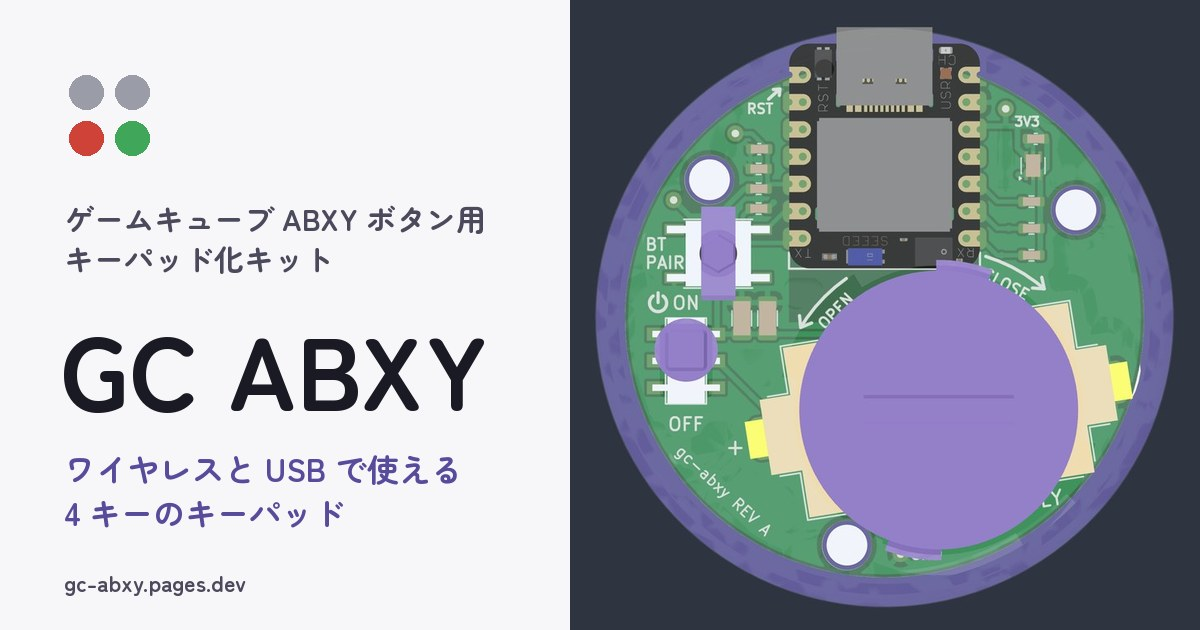
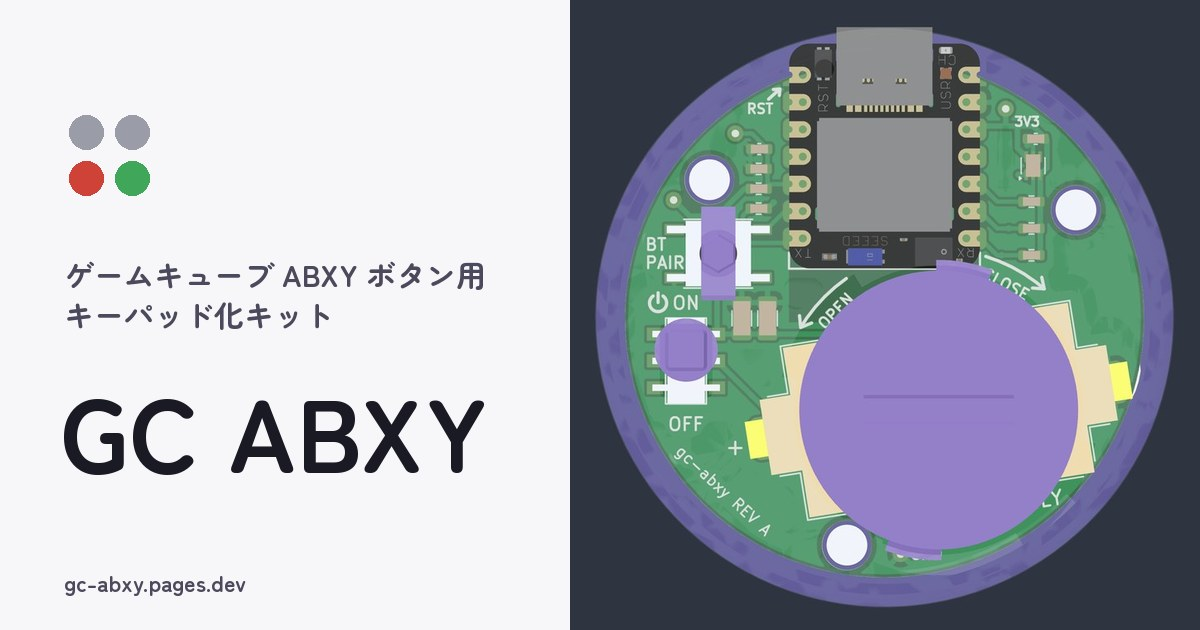
電池ホルダーの向きの指示を消し、共有用の画像を簡単にする

Changed region(s): [[0.0308, 0.4825, 0.4008, 0.8444], [0.0308, 0.1206, 0.4008, 0.3619], [0.0617, 0.3921, 0.4008, 0.4524]]

diff --git a/site/solder/index.html b/site/solder/index.html
@@ -12,7 +12,7 @@
 <meta property="og:title" content="GC ABXY のはんだ付け（付ける部品は 4 つ）">
 <meta property="og:description" content="GC ABXY の基板に XIAO・電池ホルダー・スライドスイッチ・タクトスイッチをはんだ付けする手順と、テスターでのショートの確かめ方。">
 <meta property="og:url" content="https://gc-abxy.pages.dev/solder/">
-<meta property="og:image" content="https://gc-abxy.pages.dev/assets/img/og.jpg?v=36d582b11e">
+<meta property="og:image" content="https://gc-abxy.pages.dev/assets/img/og.jpg?v=6f69403927">
 <meta property="og:image:width" content="1200">
 <meta property="og:image:height" content="630">
 <meta name="twitter:card" content="summary_large_image">
@@ -21,7 +21,7 @@
 <link rel="icon" href="../assets/img/icon.svg?v=a9eed07451" type="image/svg+xml">
 <link rel="preload" as="font" type="font/woff2" href="../assets/fonts/zen-maru-gothic-700.woff2?v=e20b89aae2" crossorigin>
 <style>@font-face{font-family:"Zen Maru Gothic";font-weight:700;font-display:optional;src:url(../assets/fonts/zen-maru-gothic-700.woff2?v=e20b89aae2) format("woff2")}:root{--ground:#f7f7fa;--surface:#ffffff;--surface-2:#f0f0f5;--ink:#1a1a24;--ink-2:#4a4a5c;--ink-3:#66667a;--line:#e2e2ec;--line-strong:#c9c9d8;--accent:#574c9b;--accent-soft:#ece9f7;--accent-ink:#ffffff;--a:#6f717c;--b:#878994;--xy:#9a9ca8;--ok:#3fa65a;--led-red:#e23b2e;--led-blue:#2f6fe0;--led-yellow:#e0a41f;--warn-bg:#fdf1e4;--warn-line:#e0b071;--warn-ink:#8a5410;--stop-bg:#fdecea;--stop-line:#e39b93;--stop-ink:#9c2b20;--display:"Zen Maru Gothic","Hiragino Maru Gothic ProN","Yu Gothic",sans-serif;--body:"Hiragino Sans","Hiragino Kaku Gothic ProN","Yu Gothic UI","Yu Gothic","Meiryo",system-ui,sans-serif;--mono:ui-monospace,SFMono-Regular,Menlo,Consolas,monospace}@media (prefers-color-scheme:dark){:root:not([data-theme="light"]){--ground:#131318;--surface:#1c1c24;--surface-2:#24242e;--ink:#e9e9f2;--ink-2:#b6b6c8;--ink-3:#9a9ab0;--line:#2d2d3a;--line-strong:#3e3e50;--accent:#a49af0;--accent-soft:#272238;--accent-ink:#17131f;--a:#7d7f8a;--b:#5f616c;--xy:#a8aab6;--ok:#57c072;--led-red:#ff5647;--led-blue:#5b91f5;--led-yellow:#f0bb44;--warn-bg:#2e2315;--warn-line:#6d5326;--warn-ink:#f1cf9b;--stop-bg:#331c19;--stop-line:#7a3a32;--stop-ink:#f5b0a6}}:root[data-theme="dark"]{--ground:#131318;--surface:#1c1c24;--surface-2:#24242e;--ink:#e9e9f2;--ink-2:#b6b6c8;--ink-3:#9a9ab0;--line:#2d2d3a;--line-strong:#3e3e50;--accent:#a49af0;--accent-soft:#272238;--accent-ink:#17131f;--a:#7d7f8a;--b:#5f616c;--xy:#a8aab6;--ok:#57c072;--led-red:#ff5647;--led-blue:#5b91f5;--led-yellow:#f0bb44;--warn-bg:#2e2315;--warn-line:#6d5326;--warn-ink:#f1cf9b;--stop-bg:#331c19;--stop-line:#7a3a32;--stop-ink:#f5b0a6}*{box-sizing:border-box}body{background:var(--ground);color:var(--ink);font-family:var(--body);font-size:15.5px;line-height:1.9;margin:0;padding-inline:20px;padding-block:0;-webkit-font-smoothing:antialiased}.wrap{max-width:740px;margin-inline:auto;padding-block:40px 80px}h1,h2,h3{font-family:var(--display);text-wrap:balance;line-height:1.4;margin:0}:focus-visible{outline:2px solid var(--accent);outline-offset:3px;border-radius:4px}.head{display:flex;gap:24px;align-items:center;flex-wrap:wrap}.head-txt{flex:1 1 240px;min-width:0}.eyebrow{font-family:var(--mono);font-size:11px;letter-spacing:.16em;text-transform:uppercase;color:var(--ink-3);margin:0 0 4px}h1{font-size:clamp(29px,7vw,40px);font-weight:700}.lede{color:var(--ink-2);margin:9px 0 0;font-size:15px}.tabs{position:sticky;top:env(safe-area-inset-top,0px);z-index:9;display:flex;gap:6px;margin:30px -20px 0;padding:10px 20px;background:color-mix(in srgb,var(--ground) 92%,transparent);backdrop-filter:blur(8px);border-bottom:1px solid var(--line);overflow-x:auto}.tabs button{flex:0 0 auto;font-family:var(--display);font-weight:700;font-size:14.5px;border:1px solid var(--line);background:var(--surface);color:var(--ink-2);padding:9px 17px;border-radius:99px;cursor:pointer;white-space:nowrap;line-height:1.4}.tabs button[aria-selected="true"]{background:var(--accent);border-color:var(--accent);color:var(--accent-ink)}.tabs .num{font-family:var(--mono);font-size:11px;opacity:.75;margin-right:6px}.part-intro{margin:34px 0 0;padding:18px 20px;background:var(--accent-soft);border-radius:13px;color:var(--ink);font-size:15px}.part-intro b{font-weight:700}section{margin-top:46px}h2{font-size:21px;font-weight:700;display:flex;align-items:baseline;gap:11px}h2 .n{font-family:var(--mono);font-size:12px;font-weight:500;color:var(--accent);background:var(--accent-soft);padding:3px 8px;border-radius:6px;letter-spacing:.06em;flex:0 0 auto}.kit{margin-top:18px}.kit .q{font-size:14px;color:var(--ink-2);margin:0 0 9px}.kit .opts{display:flex;gap:8px;flex-wrap:wrap}.kit button{flex:1 1 190px;text-align:left;cursor:pointer;font-family:var(--body);background:var(--surface);border:1px solid var(--line);border-radius:12px;padding:13px 16px;color:var(--ink)}.kit button[aria-pressed="true"]{border-color:var(--accent);box-shadow:inset 0 0 0 1px var(--accent);background:var(--accent-soft)}.kit b{font-family:var(--display);font-weight:700;font-size:15px;display:block;line-height:1.5}.kit small{display:block;font-size:12.5px;color:var(--ink-3);line-height:1.65;margin-top:1px}.kit-badge{margin:26px 0 0;font-size:12.5px;color:var(--ink-3);border:1px dashed var(--line-strong);border-radius:9px;padding:7px 13px}.kit-badge b{color:var(--ink-2)}.sub{color:var(--ink-2);margin:13px 0 0;font-size:15px}h3{font-size:15.5px;font-weight:700;margin:28px 0 8px}ol.steps{margin:22px 0 0;padding-left:0;list-style:none;counter-reset:s}ol.steps>li{counter-increment:s;position:relative;padding-left:46px;margin-bottom:22px;font-size:15px}ol.steps>li::before{content:counter(s);position:absolute;left:0;top:-1px;width:31px;height:31px;border-radius:50%;background:var(--accent);color:var(--accent-ink);font-family:var(--mono);font-size:14px;font-weight:500;display:grid;place-items:center}ol.steps .what{font-family:var(--display);font-weight:700;display:block;line-height:1.5}ol.steps .how{color:var(--ink-2);font-size:14px;display:block;margin-top:2px}.check{margin:20px 0 0;padding:0;list-style:none;display:grid;gap:2px}.check li{margin:0}.check label{display:flex;gap:12px;align-items:flex-start;flex-wrap:wrap;padding:11px 14px;border-radius:10px;background:var(--surface);border:1px solid var(--line);cursor:pointer;font-size:14.5px}.check input{margin:5px 0 0;width:17px;height:17px;flex:0 0 auto;accent-color:var(--accent)}.check input:checked ~ .lbl{color:var(--ink-3);text-decoration:line-through}.check .lbl small{display:block;font-size:12.5px;color:var(--ink-3);text-decoration:none;line-height:1.6}.check input:checked ~ .lbl small{text-decoration:line-through}.rail{margin-top:24px}.stop{display:grid;grid-template-columns:58px 1fr;gap:0 16px;position:relative}.stop::before{content:"";position:absolute;left:57px;top:0;bottom:0;width:2px;background:var(--line)}.stop:first-child::before{top:15px}.stop:last-child::before{bottom:auto;height:15px}.t{grid-column:1;text-align:right;font-family:var(--mono);font-size:14px;font-weight:500;color:var(--ink);padding-top:7px;white-space:nowrap}.t small{display:block;font-family:var(--body);font-size:12px;font-weight:700;color:var(--warn-ink);letter-spacing:0;margin-top:2px}.body-col{grid-column:2;padding:0 0 24px 16px;position:relative}.body-col::before{content:"";position:absolute;left:-6px;top:14px;width:12px;height:12px;border-radius:50%;background:var(--accent);border:2px solid var(--accent)}.stop .card{background:var(--surface);border:1px solid var(--line);border-radius:12px;padding:15px 17px}.stop h3{margin:0 0 4px;font-size:15.5px}.stop p{margin:0;color:var(--ink-2);font-size:14px}.led-chip{display:inline-flex;align-items:center;gap:7px;margin-top:10px;font-size:13px;font-family:var(--mono);color:var(--ink-2);background:var(--surface-2);border-radius:99px;padding:3px 12px 3px 6px}.swatch{width:13px;height:13px;border-radius:50%;flex:0 0 auto}.rainbow{background:conic-gradient(#e23b2e,#e0a41f,#3fa65a,#31c0c0,#2f6fe0,#b34fd0,#e23b2e)}.release{margin-top:11px;padding-top:11px;border-top:1px dashed var(--line);font-size:14px;color:var(--ink)}.release .tag{font-family:var(--mono);font-size:11px;color:var(--ink-3);letter-spacing:.05em;text-transform:uppercase;display:block;margin-bottom:1px}.tablewrap{overflow-x:auto;margin-top:20px;border:1px solid var(--line);border-radius:12px;background:var(--surface)}table{border-collapse:collapse;width:100%;font-size:14.5px}th,td{text-align:left;padding:12px 16px;border-bottom:1px solid var(--line);vertical-align:top}tbody tr:last-child td{border-bottom:0}th{font-family:var(--mono);font-size:12px;letter-spacing:.09em;text-transform:uppercase;color:var(--ink-3);font-weight:500;background:var(--surface-2)}td.sig{white-space:normal}td.sig span{display:inline-flex;align-items:center;gap:8px}.note{margin-top:22px;background:var(--surface);border:1px solid var(--line);border-left:3px solid var(--accent);border-radius:0 11px 11px 0;padding:15px 18px}.note p{margin:0;font-size:14.5px;color:var(--ink-2)}.note b{color:var(--ink)}.note h3{margin:0 0 5px;font-size:15px}.warn,.stopbox{margin-top:22px;border-radius:12px;padding:16px 19px}.warn{background:var(--warn-bg);border:1px solid var(--warn-line)}.warn h3{margin:0 0 5px;color:var(--warn-ink);font-size:15px}.warn p{margin:0;font-size:14.5px;color:var(--warn-ink)}.stopbox{background:var(--stop-bg);border:1px solid var(--stop-line)}.stopbox h3{margin:0 0 5px;color:var(--stop-ink);font-size:15px}.stopbox p{margin:0;font-size:14.5px;color:var(--stop-ink)}.note p+p,.warn p+p,.stopbox p+p{margin-top:8px}.door{display:flex;gap:22px;align-items:center;flex-wrap:wrap;margin-top:22px;background:var(--surface);border:1px solid var(--line);border-radius:13px;padding:20px}.door .cap{flex:1 1 210px;min-width:0;font-size:14.5px;color:var(--ink-2);margin:0}kbd{font-family:var(--mono);font-size:13px;background:var(--surface-2);border:1px solid var(--line-strong);border-bottom-width:2px;border-radius:5px;padding:1px 6px}.legal{margin-top:54px;padding:20px 22px;background:var(--surface-2);border:1px solid var(--line);border-radius:13px}.legal h3{margin:0 0 10px;font-size:14.5px}.legal p{margin:0 0 9px;font-size:13px;line-height:1.85;color:var(--ink-2)}.legal p:last-child{margin-bottom:0}.legal b{color:var(--ink)}.legal a{color:var(--accent);word-break:break-all}footer{margin-top:60px;padding-top:22px;border-top:1px solid var(--line);font-size:12.5px;color:var(--ink-3);line-height:1.9}footer code{font-family:var(--mono);font-size:11.5px}@media (prefers-reduced-motion:no-preference){.blinker{animation:bl 1.1s steps(1,end) infinite}@keyframes bl{0%,45%{opacity:1}46%,100%{opacity:.18}}.rainbow{animation:hue6 3.5s steps(1,end) infinite}@keyframes hue6{0%{background:#e23b2e}2.4%{background:#e0a41f}4.8%{background:#3fa65a}7.2%{background:#31c0c0}9.6%{background:#2f6fe0}12%{background:#b34fd0}14.4%{background:#e23b2e}16.8%{background:#e0a41f}19.2%{background:#3fa65a}21.6%{background:#31c0c0}24%{background:#2f6fe0}26.4%{background:#b34fd0}28.8%{background:conic-gradient(#e23b2e,#e0a41f,#3fa65a,#31c0c0,#2f6fe0,#b34fd0,#e23b2e)}100%{background:conic-gradient(#e23b2e,#e0a41f,#3fa65a,#31c0c0,#2f6fe0,#b34fd0,#e23b2e)}}}.kit-switch{margin-left:.6em;appearance:none;cursor:pointer;border:1px solid var(--line-strong);background:var(--surface-2);color:var(--ink-2);border-radius:999px;padding:.12em .8em;font-size:.82em;font-weight:600;font-family:inherit;line-height:1.6;vertical-align:baseline}.kit-switch:hover{border-color:var(--accent);color:var(--accent)}.kit-switch:focus-visible{outline:2px solid var(--accent);outline-offset:2px}.tbd{background:color-mix(in srgb,var(--accent) 14%,transparent);border-bottom:1px dashed var(--accent);padding:0 .25em;border-radius:3px}.check label{position:relative}.buy{display:inline-flex;align-items:center;justify-content:center;gap:5px;font-size:12.5px;font-weight:600;text-decoration:none;color:var(--accent);border:1px solid var(--line-strong);border-radius:999px;padding:.3em .75em;background:var(--surface-2)}.buy:hover{border-color:var(--accent)}.ad{font-family:var(--mono,monospace);font-size:10.5px;font-weight:700;letter-spacing:.06em;color:var(--ink-3);border:1px solid var(--line-strong);border-radius:3px;padding:0 .3em;line-height:1.5}.ad-note{margin:10px 0 0;font-size:12.5px;color:var(--ink-3)}.ad-note a{color:var(--ink-3)}section[id]{scroll-margin-top:calc(env(safe-area-inset-top,0px) + var(--stick,58px) + 18px)}.buys{margin-left:auto;align-self:center;flex:0 0 auto;display:grid;grid-template-columns:76px 54px 48px;gap:5px;align-items:center}.buys .buy[data-shop="seeed"]{grid-column:1}.buys .buy[data-shop="marutsu"]{grid-column:2}.buys .buy[data-shop="akizuki"]{grid-column:3}.buys .buy{padding:.3em .2em}ul.plain{margin:14px 0 0;padding-left:1.25em;font-size:15px;color:var(--ink-2)}ul.plain li{margin:7px 0}ul.plain b{color:var(--ink)}.foot{margin-top:64px;padding-top:26px;border-top:1px solid var(--line-strong);font-size:12.5px;line-height:1.9;color:var(--ink-3)}.foot .foot-sec{margin-top:26px}.foot .foot-sec:first-child{margin-top:0}.foot h3{font-family:var(--body);font-size:13px;font-weight:700;color:var(--ink-2);margin:0 0 6px}.foot p{margin:0 0 7px;font-size:12.5px;line-height:1.9;color:var(--ink-3)}.foot p:last-child{margin-bottom:0}.foot b,.foot strong{color:var(--ink-2);font-weight:600}.foot a{color:var(--ink-2);word-break:break-all}.foot code{font-family:var(--mono);font-size:11.5px}.foot-spec{margin-top:30px;padding-top:18px;border-top:1px solid var(--line)}.legal-body{margin-top:14px}.legal-body p{margin:0 0 10px;font-size:13.5px;line-height:1.95;color:var(--ink-2)}.legal-body p:last-child{margin-bottom:0}.legal-body b{color:var(--ink)}.legal-body code{font-family:var(--mono);font-size:12px}.check .lbl{flex:1 1 180px;min-width:0}@media (max-width:480px){.buys{flex-basis:100%;justify-content:end}}.fwver{display:flex;flex-wrap:wrap;gap:12px;align-items:center;margin:14px 0}.fwver button{font:inherit;font-weight:700;cursor:pointer;padding:9px 18px;border-radius:8px;border:0;background:var(--accent);color:var(--accent-ink)}.fwver button:disabled{opacity:.55;cursor:progress}.fwver output{white-space:pre-line;font-family:ui-monospace,SFMono-Regular,Menlo,monospace;font-size:13.5px}@media (max-width:420px){.tabs .num{display:none}.tabs button{padding:9px 13px}}.t small{white-space:normal;line-height:1.4}.fwver button.sec{background:transparent;color:var(--accent);box-shadow:inset 0 0 0 1px var(--accent)}.fwver button:disabled{cursor:default}.diag th[scope="row"]{width:34%;white-space:nowrap;letter-spacing:.04em}.diag td{overflow-wrap:anywhere}.diag-keys th,.diag-keys td{padding:10px 8px;font-size:13.5px}.diag-keys th{letter-spacing:.02em;text-transform:none;white-space:normal;line-height:1.4}.diag-keys td{font-family:var(--mono);font-variant-numeric:tabular-nums;white-space:nowrap}.diag-keys td:first-child{font-family:var(--display);font-weight:700}.judge{display:inline-block;font-family:var(--body);font-size:12.5px;font-weight:700;line-height:1.5;padding:1px 9px;border-radius:99px;border:1px solid var(--line-strong);color:var(--ink-3);white-space:nowrap}.judge.ok{color:var(--ink);border-color:var(--ok);background:color-mix(in srgb,var(--ok) 16%,transparent)}.judge.ng{color:var(--warn-ink);border-color:var(--warn-line);background:var(--warn-bg)}.diag-keys td.ng{color:var(--warn-ink);font-weight:700}.diag textarea{display:block;width:100%;margin-top:12px;padding:12px 14px;border:1px solid var(--line);border-radius:11px;background:var(--surface);color:var(--ink);font-family:var(--mono);font-size:12.5px;line-height:1.7;resize:vertical}.tabs .mini{flex:0 0 auto;display:flex;align-items:center;width:0;margin-right:-6px;opacity:0;overflow:hidden;pointer-events:none;transform:scale(.6);transform-origin:left center}.tabs .mini svg{display:block;width:42px;height:30px}.tabs.stuck .mini{width:42px;margin-right:2px;opacity:1;transform:none;pointer-events:auto}.head>div[aria-hidden]{transition:opacity .2s}.head.gone>div[aria-hidden]{opacity:0}@media (prefers-reduced-motion:no-preference){.tabs .mini{transition:width .28s ease,margin .28s ease,opacity .2s ease,transform .28s ease}}.stage{position:sticky;top:calc(env(safe-area-inset-top,0px) + var(--stick,58px));z-index:6;background:var(--ground);padding:10px 0 8px;margin-top:18px}.stage::after{content:"";position:absolute;left:0;right:0;bottom:-14px;height:14px;pointer-events:none;background:linear-gradient(var(--ground),transparent)}.stage-in{position:relative;border:1px solid var(--line);border-radius:13px;overflow:hidden;background:var(--surface)}.stage.anim .stage-in{aspect-ratio:420/132}.stage.photo .stage-in{height:min(36vh,360px)}.stage .frame{position:absolute;inset:0;opacity:0;transition:opacity .35s ease}.stage .frame.on{opacity:1}.stage .frame .render-img{position:absolute;inset:0;aspect-ratio:auto!important;background-size:contain;background-position:center;background-repeat:no-repeat}.stage .render-img svg .mk{transition:opacity .3s}.stage .render-img svg.focus .mk:not(.on){opacity:.22}.stage .render-img.board-top svg.focus .mk:not(.on){opacity:0}.stage-n{position:absolute;left:10px;top:10px;min-width:28px;height:28px;padding:0 8px;border-radius:99px;background:var(--surface);color:var(--accent);border:1.5px solid var(--accent);font-family:var(--display);font-size:13px;font-weight:700;display:grid;place-items:center;z-index:2}.stage-caps p{display:none;margin:7px 2px 0;font-size:12.5px;line-height:1.7;color:var(--ink-2)}.stage-caps p.on{display:block}.stage-caps .leg{display:inline-flex;align-items:flex-start;gap:5px;margin:2px 10px 0 0;white-space:normal}.stage-caps .leg i{font-style:normal;font-family:var(--mono);font-size:11px;font-weight:700;color:#fff;background:#574c9b;width:18px;height:18px;border-radius:50%;display:inline-grid;place-items:center}.scrolly.live ol.steps>li:last-child{margin-bottom:0}.scrolly.live ol.steps>li::before{transition:opacity .3s}.scrolly.live ol.steps>li:not(.now)::before{opacity:.35}.scrolly.live ol.steps>li:not(.now) .what{color:var(--ink-2)}.scrolly.live ol.steps>li:not(.now) .how{color:var(--ink-3)}.asmv{display:block;width:100%;height:100%}.asmv .lab{font-family:var(--body);font-size:12px;fill:var(--ink-2);transition:opacity .3s}.asmv .el{transition:transform .7s cubic-bezier(.3,.7,.3,1),opacity .5s ease}.asmv .asm{transform-box:view-box;transform-origin:200px 155px;transition:transform .8s cubic-bezier(.5,0,.3,1)}.asmv.snap .el,.asmv.snap .asm{transition:none!important}.asmv .hl{animation:hl 1.1s ease-in-out 2}@keyframes hl{50%{filter:drop-shadow(0 0 3px var(--accent)) drop-shadow(0 0 6px var(--accent))}}@media (prefers-reduced-motion:reduce){.asmv .el,.asmv .asm,.stage .frame{transition-duration:.01s}.asmv .hl{animation:none}}.stop.danger .card{border-color:var(--warn-line);background:var(--warn-bg)}.stop.danger .card p{color:var(--warn-ink)}.stop.danger .body-col::before{background:var(--warn-line);border-color:var(--warn-line)}.stop h3{text-wrap:pretty}figure.render{margin:22px auto 0;max-width:440px;border:1px solid var(--line);border-radius:14px;overflow:hidden;background:var(--surface)}.render-img{position:relative;aspect-ratio:1/1;background:#2b3140 center/cover no-repeat}.render-img.back-on{background-image:url(../assets/img/back-on.webp?v=ece4f9e16b)}.render-img.back{background-image:url(../assets/img/back.webp?v=bab38c7f83)}.render-img svg{position:absolute;inset:0;width:100%;height:100%}figure.render figcaption{padding:11px 15px 13px;font-size:13px;line-height:1.8;color:var(--ink-2)}figure.render figcaption b{color:var(--ink)}figure.render .leg{display:inline-flex;align-items:flex-start;gap:5px;margin:5px 12px 0 0;white-space:normal}figure.render .leg i{font-style:normal;font-family:var(--mono);font-size:11px;font-weight:700;color:#fff;background:#574c9b;width:18px;height:18px;border-radius:50%;display:inline-grid;place-items:center}a{color:var(--accent);text-underline-offset:2px}.render-img.extra{background-color:#f4f4f3;aspect-ratio:1600/360;background-image:url(../assets/img/extra.webp?v=b2c49f3cec)}.render-img.studio-connect{background-color:#171a1f;aspect-ratio:800/320;background-image:url(../assets/img/studio-connect.webp?v=d271368730)}.render-img.studio-port{background-color:#1c1c1c;aspect-ratio:800/800;background-image:url(../assets/img/studio-port.webp?v=abbd12f083)}.render-img.studio-edit{background-color:#171a1f;aspect-ratio:1200/1000;background-image:url(../assets/img/studio-edit.webp?v=67e81f59cc)}.render.tiny{max-width:260px}.render-img.board-top{background-color:#f4f4f3;aspect-ratio:1/1;background-image:url(../assets/img/board-top.webp?v=5067ec044a)}.render-img.board-front{background-color:#f4f4f3;aspect-ratio:1/1;background-image:url(../assets/img/board-front.svg?v=e38a5a4685)}.render-img.board-top.sw-on{background-image:url(../assets/img/board-top-on.webp?v=785a360b9d)}.render-img.parts{background-color:#f4f4f3;aspect-ratio:1600/900;background-image:url(../assets/img/parts.webp?v=7a05b30ccb)}figure.render.wide{max-width:640px}td .num{display:inline-grid;place-items:center;width:18px;height:18px;margin-right:7px;border-radius:50%;background:#574c9b;color:#fff;font-family:var(--mono);font-size:11px;font-weight:700;vertical-align:1px}ol.steps .what a{color:inherit;text-decoration:underline;text-decoration-color:var(--line-strong);text-underline-offset:4px}ol.steps .what a:hover{text-decoration-color:var(--accent)}.stage .vid{position:absolute;inset:0;display:none;background:#2b3140;z-index:1}.stage.has-vid .vid{display:block}.stage .vid video{width:100%;height:100%;object-fit:contain;display:block}.stage.anim.clips .stage-in{aspect-ratio:16/9;max-height:44vh}figure.clips{display:grid;grid-template-columns:repeat(auto-fit,minmax(230px,1fr));gap:10px;margin:18px 0 0}figure.clips .clip{margin:0}figure.clips video,figure.clips img{display:block;width:100%;height:auto;aspect-ratio:16/9;border-radius:12px;background:#2b3140;border:1px solid var(--line)}figure.clips p{margin:6px 2px 0;font-size:12.5px;line-height:1.6;color:var(--ink-2)}.brand{display:flex;align-items:center;gap:14px;text-decoration:none;color:var(--ink)}.brand svg{width:56px;height:auto;flex:0 0 auto}.brand b{display:block;font-family:var(--display);font-size:clamp(24px,6vw,30px);line-height:1.25}.brand .eyebrow{margin:0}.tabs a{flex:0 0 auto;font-family:var(--display);font-weight:700;font-size:14.5px;text-decoration:none;border:1px solid var(--line);background:var(--surface);color:var(--ink-2);padding:9px 16px;border-radius:99px;white-space:nowrap;line-height:1.4}.tabs a:hover{border-color:var(--accent)}.tabs a[aria-current="page"]{background:var(--accent);border-color:var(--accent);color:var(--accent-ink)}@media (max-width:420px){.tabs a{flex:1 1 auto;padding:8px 9px;font-size:13.5px;text-align:center}.tabs{gap:5px}}main>h1{margin-top:34px;font-size:clamp(26px,6vw,34px)}main>.lede{font-size:15.5px;margin-top:10px}.note-s{margin:12px 0 0;font-size:12.5px;color:var(--ink-3)}.note-s a{color:var(--ink-3)}.hero{display:grid;grid-template-columns:minmax(0,1.15fr) minmax(0,1fr);gap:26px;align-items:center;margin-top:34px}.hero h1{font-size:clamp(32px,8vw,46px)}.hero .lede{font-size:15.5px;margin-top:10px}.hero-fig{margin:0;border-radius:16px;overflow:hidden;border:1px solid var(--line);background:#2e3440;aspect-ratio:1/1;max-width:100%}.hero-fig img,.hero-fig video{display:block;width:100%;height:100%;object-fit:cover}.hero-fig{position:relative}.hero-fig video{position:absolute;inset:0}@media (max-width:640px){.hero{grid-template-columns:1fr}}.facts{list-style:none;margin:14px 0 0;padding:0;display:flex;flex-wrap:wrap;gap:6px}.facts li{font-size:13px;background:var(--surface);border:1px solid var(--line);border-radius:99px;padding:2px 11px;color:var(--ink-2)}.facts b{color:var(--ink)}.cards{display:grid;grid-template-columns:repeat(auto-fit,minmax(200px,1fr));gap:10px;margin-top:18px}.card{display:flex;flex-direction:column;gap:3px;padding:14px 16px;background:var(--surface);border:1px solid var(--line);border-radius:13px;text-decoration:none;color:var(--ink);min-width:0}a.card:hover{border-color:var(--accent)}.card b{font-family:var(--display);font-size:15.5px;line-height:1.5}.card span{font-size:13.5px;color:var(--ink-2);line-height:1.7}.card .q{font-family:var(--mono);font-size:11px;letter-spacing:.06em;color:var(--ink-3)}.pill{align-self:flex-start;font-size:11.5px;font-weight:700;border-radius:99px;padding:0 9px;background:var(--accent-soft);color:var(--accent)}.vids{display:grid;grid-template-columns:repeat(auto-fit,minmax(190px,1fr));gap:10px;margin-top:18px}.vid{background:var(--surface);border:1px solid var(--line);border-radius:13px;overflow:hidden;display:flex;flex-direction:column}.vid .frame{background:var(--surface-2);display:grid;place-items:center;color:var(--ink-3);font:12px var(--mono);letter-spacing:.06em}.vid .v916{aspect-ratio:9/16;width:calc(100%*81/256);align-self:center;border-radius:0 0 10px 10px}.vid .v169{aspect-ratio:16/9}.vid .txt{padding:11px 14px;display:flex;flex-direction:column;gap:3px}.vid .txt b{font-family:var(--display);line-height:1.5}.vid .txt span{font-size:13px;color:var(--ink-2);line-height:1.7}table.kv tbody th{font-family:var(--body);font-size:14px;font-weight:700;letter-spacing:0;text-transform:none;color:var(--ink);background:transparent;width:32%}table.kv td{color:var(--ink-2)}.spec-st{display:inline-block;font-size:11.5px;font-weight:700;border-radius:99px;padding:0 8px;margin-right:6px;white-space:nowrap;border:1px solid var(--line-strong);color:var(--ink-3)}.spec-st.s-design{border-color:var(--accent);color:var(--accent)}.spec-st.s-measured{border-color:var(--ok);color:var(--ink)}.spec-st.s-target,.spec-st.s-interim{border-color:var(--warn-line);color:var(--warn-ink);background:var(--warn-bg)}.spec-note{display:block;font-size:12.5px;color:var(--ink-3);margin-top:2px}.faq{display:grid;gap:8px;margin-top:18px}.faq details{background:var(--surface);border:1px solid var(--line);border-radius:12px;padding:11px 16px}.faq summary{cursor:pointer;font-family:var(--display);font-weight:700;line-height:1.6}.faq details p{margin:8px 0 0;color:var(--ink-2);font-size:14.5px}.foot-links{margin:0 0 18px;font-size:13px}.foot-links a{color:var(--ink-2)}.stage-caps .leg i,figure.render .leg i{flex:0 0 auto;margin-top:2px}.fix ol{margin:0;padding-left:1.2em}.fix li{margin:2px 0}.nf{padding-top:28px}.nf-fig{margin:0 0 22px;background:#fff;border:1px solid var(--line);border-radius:16px;overflow:hidden;padding:18px 12px 10px}.nf-fig img{display:block;width:100%;height:clamp(110px,22vw,170px);object-fit:cover;object-position:50% 60%}@media (prefers-reduced-motion:no-preference){.nf-fig img{animation:nf-walk 7s ease-in-out infinite alternate}}@keyframes nf-walk{from{transform:translateX(-2.5%)}to{transform:translateX(2.5%)}}.nf h1{margin-top:4px;font-size:clamp(22px,5.4vw,30px);word-break:keep-all;overflow-wrap:anywhere}.nf-cards{margin-top:20px;grid-template-columns:repeat(auto-fill,minmax(140px,1fr))}.ln{display:block}.stage.nocaps .stage-caps{display:none}.fix td:first-child{min-width:8em}.go{display:block;width:max-content;min-width:min(40vw,100%);max-width:100%;box-sizing:border-box;margin:0 auto;text-align:center;font-family:var(--display);font-weight:700;font-size:17px;text-decoration:none;background:var(--accent);color:var(--accent-ink);border-radius:99px;padding:12px 30px}.go::after{content:" →"}.go:hover{filter:brightness(1.08)}@media print{.tabs,.stage.anim,.stage::after,.clips,video,.hero-fig,.buys,.ad-note,.diag,.fwver{display:none!important}body{background:#fff!important;color:#000!important}main>section{content-visibility:visible}.stage{position:static}.scrolly ol.steps>li::before{opacity:1!important;transition:none!important}.scrolly ol.steps>li .what,.scrolly ol.steps>li .how{color:inherit!important}.warn,.note,.stopbox,tr,figure{break-inside:avoid}h2,h3{break-after:avoid}}@media (max-width:640px){table.stack thead{display:none}table.stack,table.stack tbody,table.stack tr,table.stack td{display:block;width:auto}table.stack tr{border-bottom:1px solid var(--line);padding:10px 0}table.stack tbody tr:last-child{border-bottom:0}table.stack td{border:0;padding:3px 16px;min-width:0!important}table.stack td:first-child{font-weight:700;color:var(--ink)}}.toc{margin:18px 0 0;padding:12px 16px;background:var(--surface);border:1px solid var(--line);border-radius:12px}.toc ol{margin:0;padding:0;list-style:none;display:flex;flex-wrap:wrap;gap:6px 14px}.toc a{font-size:14px;text-decoration:none;color:var(--accent);display:inline-block;padding:4px 0}.toc a span{font-family:var(--mono);font-size:11px;color:var(--ink-3);margin-right:5px}.stepbar{margin:22px 0 0}.stepbar ol{margin:0;padding:0;list-style:none;display:flex;gap:4px}.stepbar li{flex:1 1 0;min-width:0;display:flex}.stepbar a{flex:1;display:flex;flex-direction:column;align-items:center;justify-content:center;gap:2px;padding:9px 16px 9px 8px;text-decoration:none;white-space:nowrap;background:var(--accent-soft);color:var(--ink-2);font-family:var(--display);font-weight:700;font-size:13px;text-align:center;line-height:1.3;clip-path:polygon(calc(0% + 0.00px) calc(0% + 8.00px),calc(0% + 0.50px) calc(0% + 4.50px),calc(0% + 2.00px) calc(0% + 2.00px),calc(0% + 4.50px) calc(0% + 0.50px),calc(0% + 8.00px) calc(0% + 0.00px),calc(100% + -18.00px) calc(0% + 0.00px),calc(100% + -16.13px) calc(0% + 0.22px),calc(100% + -14.51px) calc(0% + 0.87px),calc(100% + -13.15px) calc(0% + 1.96px),calc(100% + -12.05px) calc(0% + 3.49px),calc(100% + -1.47px) calc(50% + -2.62px),calc(100% + -0.92px) calc(50% + -1.31px),calc(100% + -0.73px) calc(50% + 0.00px),calc(100% + -0.92px) calc(50% + 1.31px),calc(100% + -1.47px) calc(50% + 2.62px),calc(100% + -12.05px) calc(100% + -3.49px),calc(100% + -13.15px) calc(100% + -1.96px),calc(100% + -14.51px) calc(100% + -0.87px),calc(100% + -16.13px) calc(100% + -0.22px),calc(100% + -18.00px) calc(100% + 0.00px),calc(0% + 8.00px) calc(100% + 0.00px),calc(0% + 4.50px) calc(100% + -0.50px),calc(0% + 2.00px) calc(100% + -2.00px),calc(0% + 0.50px) calc(100% + -4.50px),calc(0% + 0.00px) calc(100% + -8.00px))}.stepbar a span{font-family:var(--mono);font-size:11px;font-weight:500;color:var(--accent)}.stepbar a:hover{filter:brightness(.96)}.stepbar a[aria-current="step"]{background:var(--accent);color:var(--accent-ink)}.stepbar a[aria-current="step"] span{color:var(--accent-ink)}@media (max-width:420px){.stepbar ol{gap:3px}.stepbar a{font-size:12px;padding:8px 11px 8px 3px;clip-path:polygon(calc(0% + 0.00px) calc(0% + 7.00px),calc(0% + 0.44px) calc(0% + 3.94px),calc(0% + 1.75px) calc(0% + 1.75px),calc(0% + 3.94px) calc(0% + 0.44px),calc(0% + 7.00px) calc(0% + 0.00px),calc(100% + -13.00px) calc(0% + 0.00px),calc(100% + -11.62px) calc(0% + 0.17px),calc(100% + -10.46px) calc(0% + 0.69px),calc(100% + -9.54px) calc(0% + 1.56px),calc(100% + -8.85px) calc(0% + 2.77px),calc(100% + -0.96px) calc(50% + -2.31px),calc(100% + -0.60px) calc(50% + -1.15px),calc(100% + -0.48px) calc(50% + 0.00px),calc(100% + -0.60px) calc(50% + 1.15px),calc(100% + -0.96px) calc(50% + 2.31px),calc(100% + -8.85px) calc(100% + -2.77px),calc(100% + -9.54px) calc(100% + -1.56px),calc(100% + -10.46px) calc(100% + -0.69px),calc(100% + -11.62px) calc(100% + -0.17px),calc(100% + -13.00px) calc(100% + 0.00px),calc(0% + 7.00px) calc(100% + 0.00px),calc(0% + 3.94px) calc(100% + -0.44px),calc(0% + 1.75px) calc(100% + -1.75px),calc(0% + 0.44px) calc(100% + -3.94px),calc(0% + 0.00px) calc(100% + -7.00px))}}@media (max-width:360px){.stepbar a{font-size:10.5px;padding-left:2px;padding-right:10px}}main>.stepbar:first-child{position:sticky;top:calc(env(safe-area-inset-top,0px) + var(--tabh,58px));z-index:8;margin:0 -20px 18px;padding:10px 20px;background:color-mix(in srgb,var(--ground) 92%,transparent);backdrop-filter:blur(8px)}@media (max-width:360px){.tabs{margin-left:-12px;margin-right:-12px;padding-left:12px;padding-right:12px;gap:3px}.tabs a{padding:7px 5px;font-size:12.5px}}main>section{content-visibility:auto;contain-intrinsic-size:auto 700px}</style>
-<script type="application/ld+json">{"@context": "https://schema.org", "@graph": [{"@type": "WebSite", "@id": "https://gc-abxy.pages.dev/#site", "name": "GC ABXY", "url": "https://gc-abxy.pages.dev/", "inLanguage": "ja"}, {"@type": "BreadcrumbList", "itemListElement": [{"@type": "ListItem", "position": 1, "name": "ホーム", "item": "https://gc-abxy.pages.dev/"}, {"@type": "ListItem", "position": 2, "name": "はんだ付け", "item": "https://gc-abxy.pages.dev/solder/"}]}, {"@type": "HowTo", "name": "GC ABXY のはんだ付け", "description": "GC ABXY の基板に XIAO・電池ホルダー・スライドスイッチ・タクトスイッチをはんだ付けする手順と、テスターでのショートの確かめ方。", "inLanguage": "ja", "about": {"@id": "https://gc-abxy.pages.dev/#kit"}, "supply": [{"@type": "HowToSupply", "name": "XIAO nRF52840（102010448）"}, {"@type": "HowToSupply", "name": "電池ホルダー CH274-2450LF"}, {"@type": "HowToSupply", "name": "スライドスイッチ SSSS213202"}, {"@type": "HowToSupply", "name": "タクトスイッチ TS-06104"}], "tool": [{"@type": "HowToTool", "name": "はんだごてとはんだ"}, {"@type": "HowToTool", "name": "テスター"}], "step": [{"@type": "HowToStep", "name": "XIAO を付ける", "text": "USB 端子が基板のふちからはみ出す向きで、XIAO の USB と反対側（アンテナ側）の端を、白い線の端に合わせます。左右 14 本の足すべてをはんだ付けします。"}, {"@type": "HowToStep", "name": "電池ホルダーを付ける", "text": "基板の ＋ の印にプラス側の足（電池を上から押さえつける端子側）を合わせ、たっぷりのはんだで留めます。"}, {"@type": "HowToStep", "name": "スライドスイッチを付ける", "text": "6 本の足すべてをはんだ付けします。"}, {"@type": "HowToStep", "name": "タクトスイッチを付ける", "text": "4 本の足を四角いパッドに合わせ、すべてはんだ付けします。"}, {"@type": "HowToStep", "name": "ボタンとの接点部分を確かめる", "text": "フラックスやはんだくずが付いていたら、無水エタノールを含ませた綿棒で拭きます。"}, {"@type": "HowToStep", "name": "電池ホルダーの＋の端子と−の端子が鳴り続けないか", "text": "当てた瞬間に一瞬だけ鳴ることがありますが、正常です。鳴り続けたら、電池ホルダーとスライドスイッチの足のまわりで、はんだがつながっていないか確かめます。"}, {"@type": "HowToStep", "name": "タクトスイッチの PROFILE の足と XIAO の GND が鳴らないか", "text": "PROFILE の足は、タクトスイッチの XIAO 側の上の足です。鳴ったら、タクトスイッチの足どうしがはんだでつながっています。はんだ吸い取り線で余分なはんだを取ります。"}, {"@type": "HowToStep", "name": "スライドスイッチを OFF 側にして、電池ホルダーの＋の端子と図の BAT の穴が鳴らないか", "text": "鳴ったら、スライドスイッチの足どうしがはんだでつながっています。はんだ吸い取り線で余分なはんだを取ります。"}, {"@type": "HowToStep", "name": "XIAO の隣り合う足どうしが鳴らないか", "text": "左右の列それぞれで、上から順に隣の足と当てていきます。当てた瞬間に一瞬だけ鳴ることがありますが、正常です。鳴り続けたら、その 2 本の足のあいだではんだがつながっています。はんだ吸い取り線で余分なはんだを取ります。"}, {"@type": "HowToStep", "name": "電池ホルダーの＋の端子と図の BAT の穴が鳴るか", "text": "鳴らなければ、電池ホルダーの＋の足か、スライドスイッチの足のはんだが足りません。"}, {"@type": "HowToStep", "name": "電池ホルダーの−の端子と XIAO の GND が鳴るか", "text": "鳴らなければ、電池ホルダーの−の足か、XIAO の GND の足のはんだが足りません。"}, {"@type": "HowToStep", "name": "タクトスイッチを押しながら、PROFILE の足と XIAO の GND が鳴るか", "text": "鳴らなければ、PROFILE の足か、反対側の下の足のはんだが足りません。"}]}]}</script>
+<script type="application/ld+json">{"@context": "https://schema.org", "@graph": [{"@type": "WebSite", "@id": "https://gc-abxy.pages.dev/#site", "name": "GC ABXY", "url": "https://gc-abxy.pages.dev/", "inLanguage": "ja"}, {"@type": "BreadcrumbList", "itemListElement": [{"@type": "ListItem", "position": 1, "name": "ホーム", "item": "https://gc-abxy.pages.dev/"}, {"@type": "ListItem", "position": 2, "name": "はんだ付け", "item": "https://gc-abxy.pages.dev/solder/"}]}, {"@type": "HowTo", "name": "GC ABXY のはんだ付け", "description": "GC ABXY の基板に XIAO・電池ホルダー・スライドスイッチ・タクトスイッチをはんだ付けする手順と、テスターでのショートの確かめ方。", "inLanguage": "ja", "about": {"@id": "https://gc-abxy.pages.dev/#kit"}, "supply": [{"@type": "HowToSupply", "name": "XIAO nRF52840（102010448）"}, {"@type": "HowToSupply", "name": "電池ホルダー CH274-2450LF"}, {"@type": "HowToSupply", "name": "スライドスイッチ SSSS213202"}, {"@type": "HowToSupply", "name": "タクトスイッチ TS-06104"}], "tool": [{"@type": "HowToTool", "name": "はんだごてとはんだ"}, {"@type": "HowToTool", "name": "テスター"}], "step": [{"@type": "HowToStep", "name": "XIAO を付ける", "text": "USB 端子が基板のふちからはみ出す向きで、XIAO の USB と反対側（アンテナ側）の端を、白い線の端に合わせます。左右 14 本の足すべてをはんだ付けします。"}, {"@type": "HowToStep", "name": "電池ホルダーを付ける", "text": "両側の足を、たっぷりのはんだで留めます。"}, {"@type": "HowToStep", "name": "スライドスイッチを付ける", "text": "6 本の足すべてをはんだ付けします。"}, {"@type": "HowToStep", "name": "タクトスイッチを付ける", "text": "4 本の足を四角いパッドに合わせ、すべてはんだ付けします。"}, {"@type": "HowToStep", "name": "ボタンとの接点部分を確かめる", "text": "フラックスやはんだくずが付いていたら、無水エタノールを含ませた綿棒で拭きます。"}, {"@type": "HowToStep", "name": "電池ホルダーの＋の端子と−の端子が鳴り続けないか", "text": "当てた瞬間に一瞬だけ鳴ることがありますが、正常です。鳴り続けたら、電池ホルダーとスライドスイッチの足のまわりで、はんだがつながっていないか確かめます。"}, {"@type": "HowToStep", "name": "タクトスイッチの PROFILE の足と XIAO の GND が鳴らないか", "text": "PROFILE の足は、タクトスイッチの XIAO 側の上の足です。鳴ったら、タクトスイッチの足どうしがはんだでつながっています。はんだ吸い取り線で余分なはんだを取ります。"}, {"@type": "HowToStep", "name": "スライドスイッチを OFF 側にして、電池ホルダーの＋の端子と図の BAT の穴が鳴らないか", "text": "鳴ったら、スライドスイッチの足どうしがはんだでつながっています。はんだ吸い取り線で余分なはんだを取ります。"}, {"@type": "HowToStep", "name": "XIAO の隣り合う足どうしが鳴らないか", "text": "左右の列それぞれで、上から順に隣の足と当てていきます。当てた瞬間に一瞬だけ鳴ることがありますが、正常です。鳴り続けたら、その 2 本の足のあいだではんだがつながっています。はんだ吸い取り線で余分なはんだを取ります。"}, {"@type": "HowToStep", "name": "電池ホルダーの＋の端子と図の BAT の穴が鳴るか", "text": "鳴らなければ、電池ホルダーの＋の足か、スライドスイッチの足のはんだが足りません。"}, {"@type": "HowToStep", "name": "電池ホルダーの−の端子と XIAO の GND が鳴るか", "text": "鳴らなければ、電池ホルダーの−の足か、XIAO の GND の足のはんだが足りません。"}, {"@type": "HowToStep", "name": "タクトスイッチを押しながら、PROFILE の足と XIAO の GND が鳴るか", "text": "鳴らなければ、PROFILE の足か、反対側の下の足のはんだが足りません。"}]}]}</script>
 </head>
 <body>
 <div class="wrap">
@@ -84,7 +84,7 @@
 </svg></div><div class="frame" data-frame="pads"><div class="render-img board-front" role="img" aria-label="基板の、ボタンとの接点の面。くし形の金色の接点が 4 か所"></div></div><span class="stage-n" aria-hidden="true">手順 1</span></div></div>
     <ol class="steps">
       <li data-clip="hw-solder-1-xiao" data-frame="anim" data-scene="0-1"><span class="what">XIAO を付ける</span><span class="how">USB 端子が基板のふちからはみ出す向きで、XIAO の USB と反対側（アンテナ側）の端を、白い線の端に合わせます。左右 <b>14 本の足すべて</b>をはんだ付けします。</span></li>
-      <li data-clip="hw-solder-2-holder" data-frame="anim" data-scene="2"><span class="what">電池ホルダーを付ける</span><span class="how">基板の <b>＋</b> の印にプラス側の足（電池を上から押さえつける端子側）を合わせ、たっぷりのはんだで留めます。</span></li>
+      <li data-clip="hw-solder-2-holder" data-frame="anim" data-scene="2"><span class="what">電池ホルダーを付ける</span><span class="how">両側の足を、たっぷりのはんだで留めます。</span></li>
       <li data-clip="hw-solder-3-slide" data-frame="anim" data-scene="3"><span class="what">スライドスイッチを付ける</span><span class="how"><b>6 本の足すべて</b>をはんだ付けします。</span></li>
       <li data-clip="hw-solder-4-tact" data-frame="anim" data-scene="4"><span class="what">タクトスイッチを付ける</span><span class="how">4 本の足を四角いパッドに合わせ、<b>すべて</b>はんだ付けします。</span></li>
       <li data-frame="pads"><span class="what">ボタンとの接点部分を確かめる</span><span class="how">フラックスやはんだくずが付いていたら、無水エタノールを含ませた綿棒で拭きます。</span></li>

diff --git a/site/index.html b/site/index.html
@@ -12,7 +12,7 @@
 <meta property="og:title" content="GC ABXY｜ゲームキューブ ABXY ボタン用 キーパッド化キット">
 <meta property="og:description" content="カプセルトイのゲームキューブ ABXY ボタンを、ワイヤレスと USB で使える 4 キーのキーパッドにする自作キット。組み立て・書き込み・使い方・仕様をまとめた取扱説明書です。">
 <meta property="og:url" content="https://gc-abxy.pages.dev/">
-<meta property="og:image" content="https://gc-abxy.pages.dev/assets/img/og.jpg?v=36d582b11e">
+<meta property="og:image" content="https://gc-abxy.pages.dev/assets/img/og.jpg?v=6f69403927">
 <meta property="og:image:width" content="1200">
 <meta property="og:image:height" content="630">
 <meta name="twitter:card" content="summary_large_image">

diff --git a/site/prep/index.html b/site/prep/index.html
@@ -12,7 +12,7 @@
 <meta property="og:title" content="GC ABXY の準備（キットの部品・購入が必要な部品・道具）">
 <meta property="og:description" content="GC ABXY を組み立てる前にそろえるものと安全のための注意。キットに含まれる部品、購入が必要な部品（XIAO nRF52840・カプセルトイ・CR2450）と買える店、使う道具。">
 <meta property="og:url" content="https://gc-abxy.pages.dev/prep/">
-<meta property="og:image" content="https://gc-abxy.pages.dev/assets/img/og.jpg?v=36d582b11e">
+<meta property="og:image" content="https://gc-abxy.pages.dev/assets/img/og.jpg?v=6f69403927">
 <meta property="og:image:width" content="1200">
 <meta property="og:image:height" content="630">
 <meta name="twitter:card" content="summary_large_image">

diff --git a/site/use/index.html b/site/use/index.html
@@ -12,7 +12,7 @@
 <meta property="og:title" content="GC ABXY の使い方（USB・ワイヤレス 3 台・LED の意味・電池交換）">
 <meta property="og:description" content="GC ABXY を USB とワイヤレスでつなぐ方法、3 台の切り替え、PROFILE ボタンの長押し、出荷状態に戻す方法、LED の色の意味、CR2450 の交換手順。">
 <meta property="og:url" content="https://gc-abxy.pages.dev/use/">
-<meta property="og:image" content="https://gc-abxy.pages.dev/assets/img/og.jpg?v=36d582b11e">
+<meta property="og:image" content="https://gc-abxy.pages.dev/assets/img/og.jpg?v=6f69403927">
 <meta property="og:image:width" content="1200">
 <meta property="og:image:height" content="630">
 <meta name="twitter:card" content="summary_large_image">

diff --git a/site/build/index.html b/site/build/index.html
@@ -12,7 +12,7 @@
 <meta property="og:title" content="GC ABXY の組み立て方（カプセルトイの分解とケースの組み方）">
 <meta property="og:description" content="GC ABXY の組み立て手順。カプセルトイの分解、ケースの組み方、ボタンとスイッチの動きの確かめ方、電池の入れ方を順に説明します。">
 <meta property="og:url" content="https://gc-abxy.pages.dev/build/">
-<meta property="og:image" content="https://gc-abxy.pages.dev/assets/img/og.jpg?v=36d582b11e">
+<meta property="og:image" content="https://gc-abxy.pages.dev/assets/img/og.jpg?v=6f69403927">
 <meta property="og:image:width" content="1200">
 <meta property="og:image:height" content="630">
 <meta name="twitter:card" content="summary_large_image">

diff --git a/site/help/index.html b/site/help/index.html
@@ -12,7 +12,7 @@
 <meta property="og:title" content="GC ABXY で困ったとき（症状と対処・診断・問い合わせ）">
 <meta property="og:description" content="つながらない、反応しない、スマホで画面のキーボードが出ないなどの症状と対処、ブラウザでの診断、バージョンの確認と問い合わせ先。">
 <meta property="og:url" content="https://gc-abxy.pages.dev/help/">
-<meta property="og:image" content="https://gc-abxy.pages.dev/assets/img/og.jpg?v=36d582b11e">
+<meta property="og:image" content="https://gc-abxy.pages.dev/assets/img/og.jpg?v=6f69403927">
 <meta property="og:image:width" content="1200">
 <meta property="og:image:height" content="630">
 <meta name="twitter:card" content="summary_large_image">

diff --git a/site/firmware/index.html b/site/firmware/index.html
@@ -12,7 +12,7 @@
 <meta property="og:title" content="GC ABXY のプログラム書き込みとキーの割り当て変更">
 <meta property="og:description" content="GC ABXY にプログラム（ZMK ファームウェア）を書き込む手順と、ZMK Studio で A・B・X・Y の割り当てを変える方法。">
 <meta property="og:url" content="https://gc-abxy.pages.dev/firmware/">
-<meta property="og:image" content="https://gc-abxy.pages.dev/assets/img/og.jpg?v=36d582b11e">
+<meta property="og:image" content="https://gc-abxy.pages.dev/assets/img/og.jpg?v=6f69403927">
 <meta property="og:image:width" content="1200">
 <meta property="og:image:height" content="630">
 <meta name="twitter:card" content="summary_large_image">

diff --git a/site/making/index.html b/site/making/index.html
@@ -12,7 +12,7 @@
 <meta property="og:title" content="GC ABXY 開発記（きっかけと、AI と進めた作り方）">
 <meta property="og:description" content="GC ABXY の開発記。作ったきっかけと、要件定義・ケースと基板の設計・回路・取扱説明書を AI と進めた作り方。">
 <meta property="og:url" content="https://gc-abxy.pages.dev/making/">
-<meta property="og:image" content="https://gc-abxy.pages.dev/assets/img/og.jpg?v=36d582b11e">
+<meta property="og:image" content="https://gc-abxy.pages.dev/assets/img/og.jpg?v=6f69403927">
 <meta property="og:image:width" content="1200">
 <meta property="og:image:height" content="630">
 <meta name="twitter:card" content="summary_large_image">

diff --git a/site/specs/index.html b/site/specs/index.html
@@ -12,7 +12,7 @@
 <meta property="og:title" content="GC ABXY の仕様（大きさ・接続・電源・ファームウェア）">
 <meta property="og:description" content="GC ABXY の仕様一覧。キー、外形、USB とワイヤレスの接続、CR2450 の電池、ZMK ファームウェア。">
 <meta property="og:url" content="https://gc-abxy.pages.dev/specs/">
-<meta property="og:image" content="https://gc-abxy.pages.dev/assets/img/og.jpg?v=36d582b11e">
+<meta property="og:image" content="https://gc-abxy.pages.dev/assets/img/og.jpg?v=6f69403927">
 <meta property="og:image:width" content="1200">
 <meta property="og:image:height" content="630">
 <meta name="twitter:card" content="summary_large_image">
